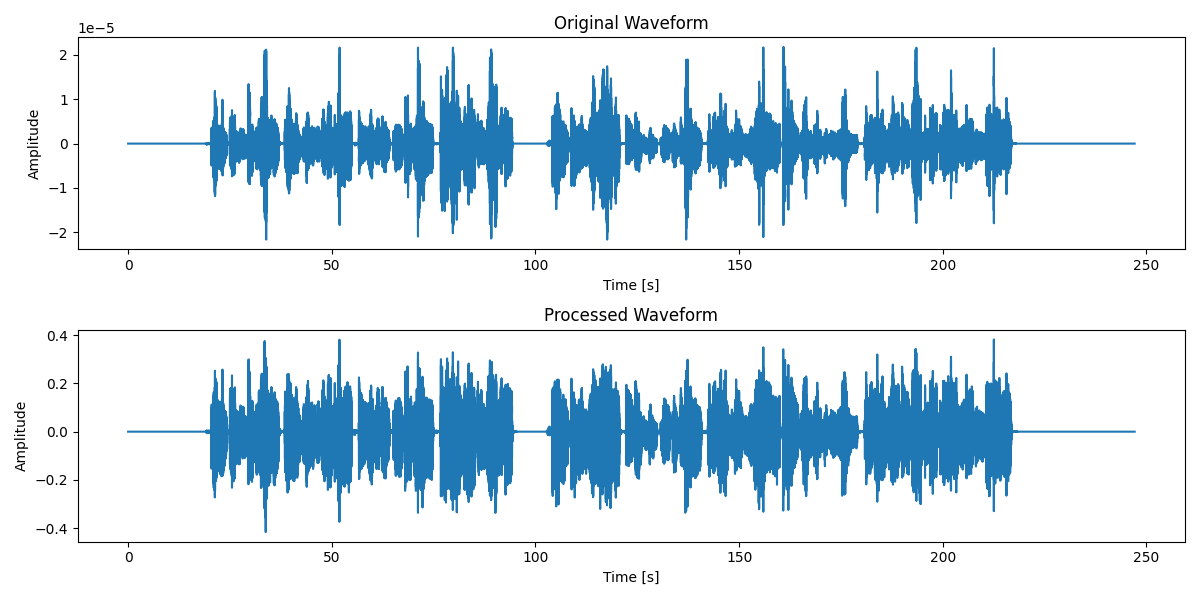
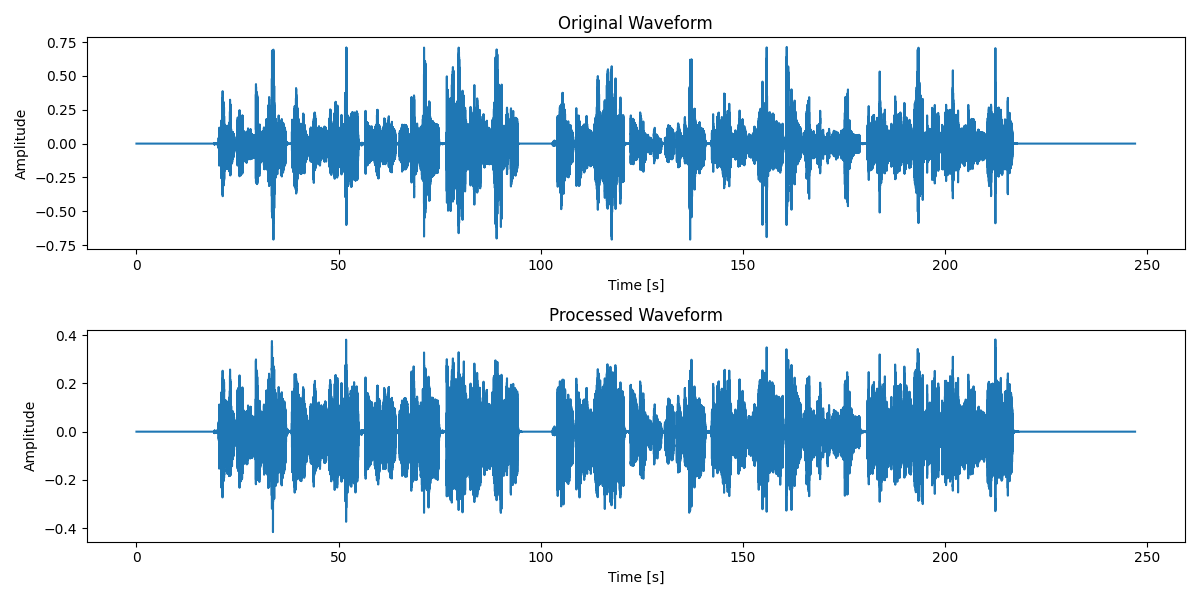
ファイル読み込みをscipyからsoundfileに変更

diff --git a/backend/testApp.py b/backend/testApp.py
@@ -123,14 +123,14 @@ def process_audio_advanced(input_path, output_path,
                            attack_ms, release_ms,
                            knee_db, normalize_level_db):
     # 読み込み
-    fs, data = wavfile.read(input_path)
+    data,fs = sf.read(input_path)
 
     # ステレオ対応（左のみ）
     if data.ndim == 2:
         data = data[:, 0]
 
     # init16型を正規化(最大値32768で割る)
-    data = data.astype(np.float32) / 32768.0
+    #data = data.astype(np.float32) / 32768.0
 
     # コンプレッサー処理
     #compressed = compressor_envelope(data, threshold_db, ratio, attack_ms, release_ms, fs, knee_db)
